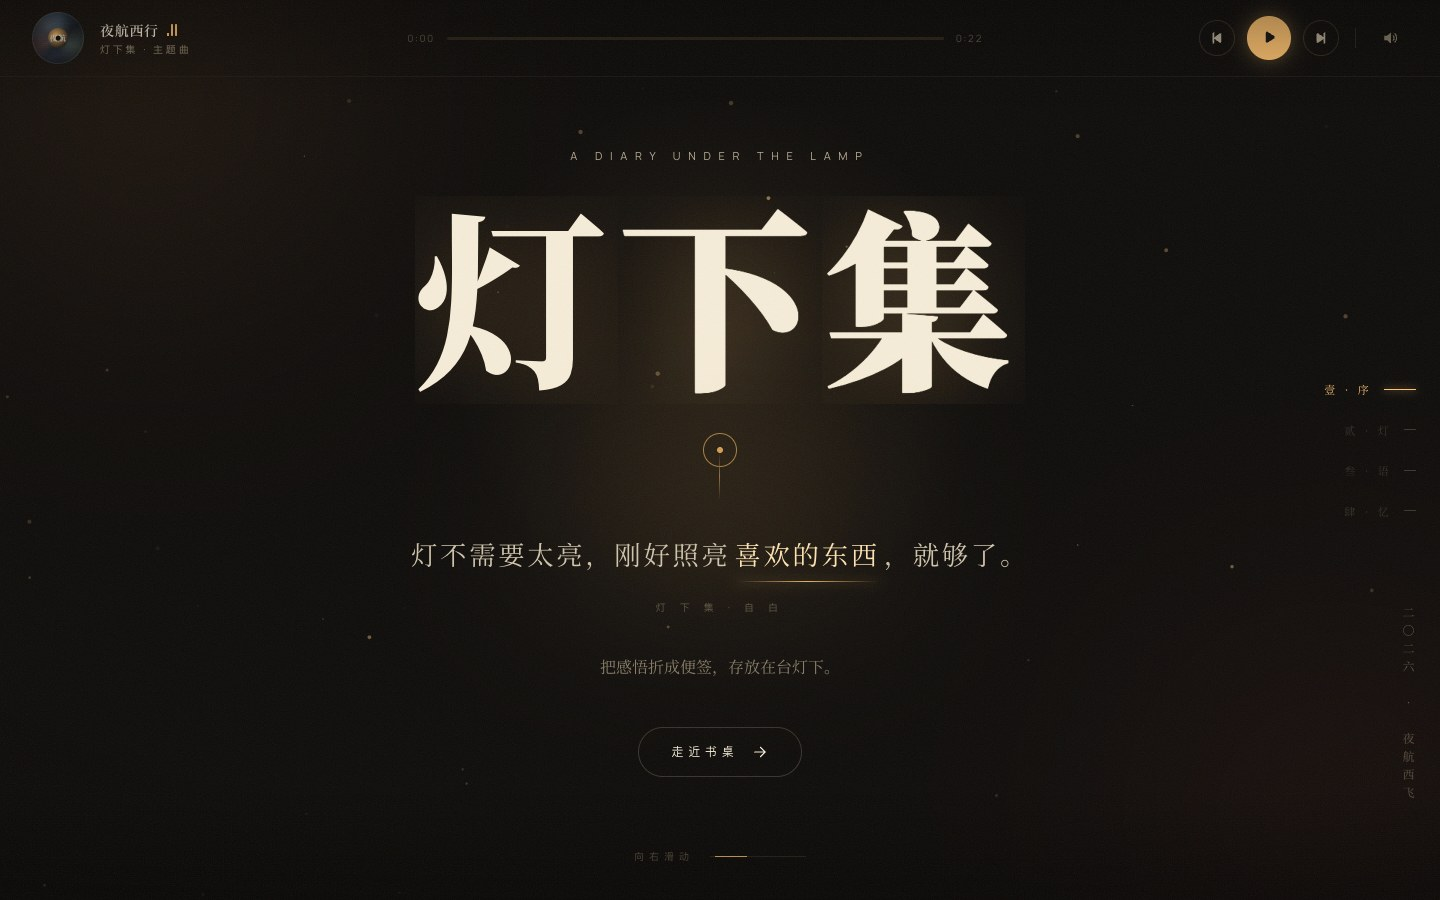
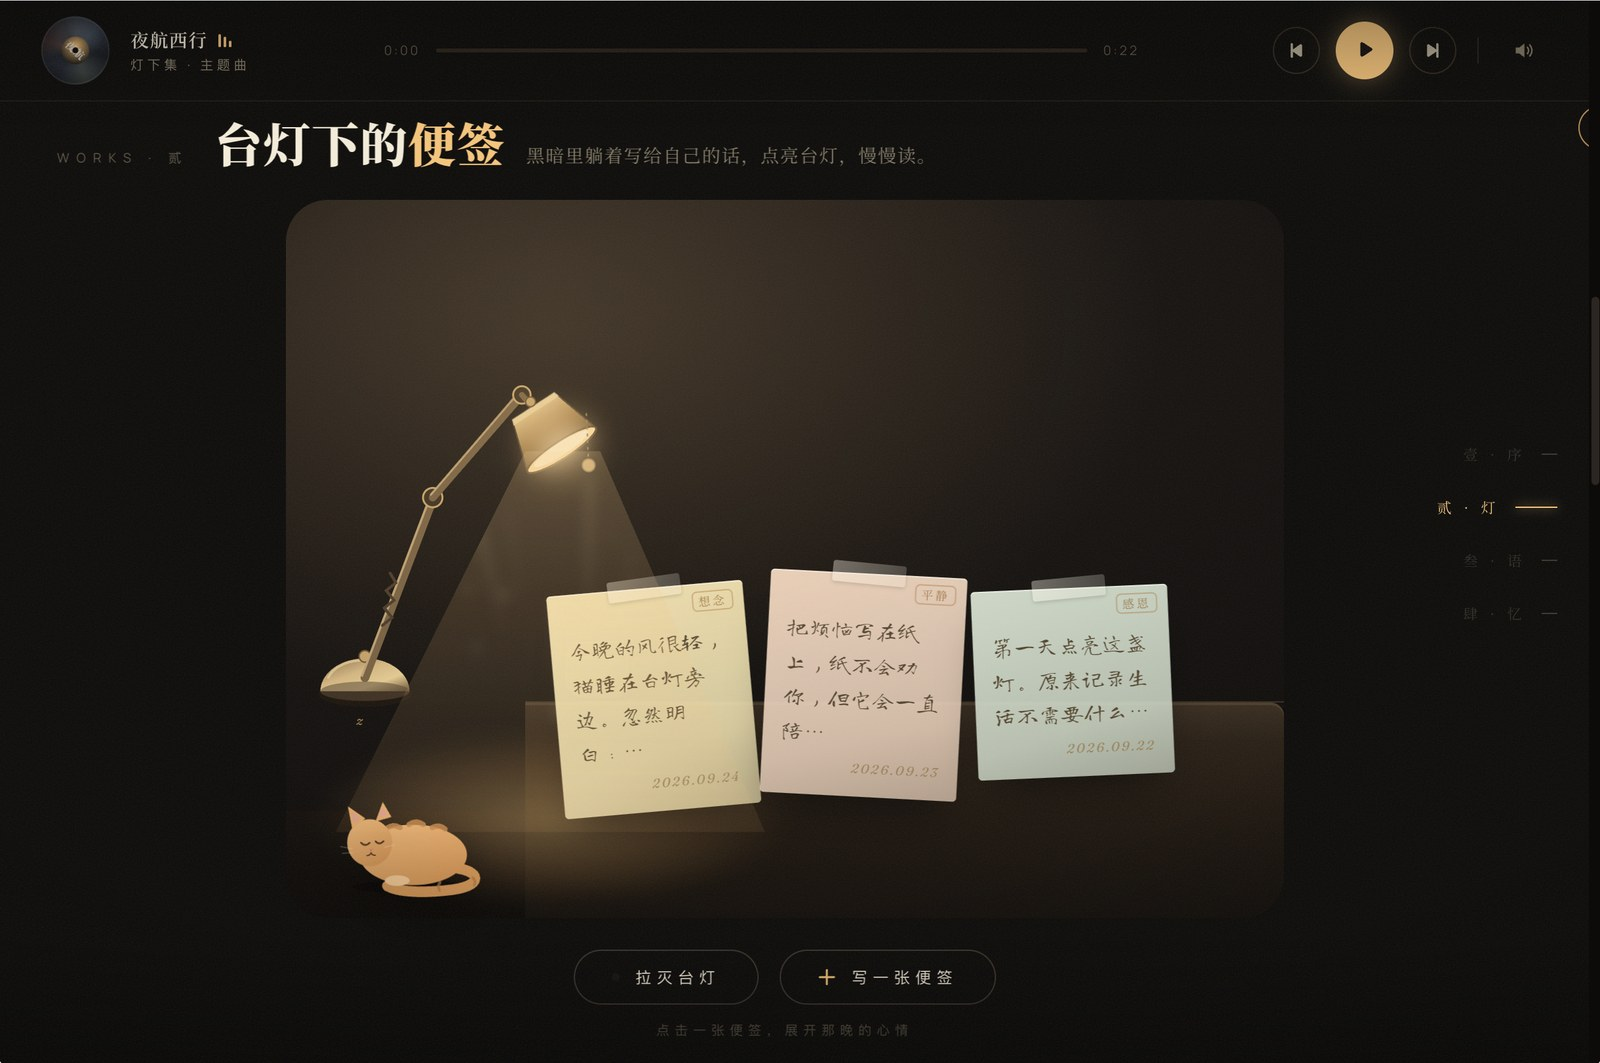
新台灯展示图+首页引导气泡

diff --git a/index.html b/index.html
@@ -755,6 +755,42 @@ footer a:hover{color:var(--accent);}
 .ov-mail{font-family:var(--serif);font-size:clamp(1.3rem,2.6vw,2rem);color:#f6f1e7;}
 .ov-social{display:flex;gap:1.6rem;}
 
+/* ============ HERO HINTS（首页引导气泡） ============ */
+.hints{position:fixed;inset:0;z-index:1800;pointer-events:none;}
+.hint{
+  position:absolute;left:50%;transform:translate(-50%,14px) scale(0.82);
+  display:flex;align-items:center;gap:0.55em;
+  padding:0.72em 1.35em;border-radius:999px;
+  font-family:var(--mono);font-size:0.75rem;letter-spacing:0.14em;
+  color:rgba(33,44,62,0.88);white-space:nowrap;
+  background:rgba(252,253,255,0.5);
+  -webkit-backdrop-filter:blur(22px) saturate(1.7);
+  backdrop-filter:blur(22px) saturate(1.7);
+  border:1px solid rgba(255,255,255,0.65);
+  box-shadow:0 10px 34px rgba(28,42,66,0.16),inset 0 1px 0 rgba(255,255,255,0.75);
+  opacity:0;filter:blur(6px);
+  transition:opacity 0.7s cubic-bezier(0.22,1,0.36,1),
+             transform 0.7s cubic-bezier(0.22,1,0.36,1),
+             filter 0.7s cubic-bezier(0.22,1,0.36,1);
+  will-change:transform,opacity,filter;
+}
+.hint.show{opacity:1;filter:blur(0);transform:translate(-50%,0) scale(1);
+  animation:hintFloat 2.8s ease-in-out 0.75s infinite;}
+.hint.gone{opacity:0;filter:blur(6px);transform:translate(-50%,10px) scale(0.88);}
+@keyframes hintFloat{0%,100%{transform:translate(-50%,0) scale(1);}50%{transform:translate(-50%,-5px) scale(1);}}
+.hint .h-ico{display:inline-flex;align-items:center;justify-content:center;
+  width:1.55em;height:1.55em;border-radius:50%;
+  background:rgba(33,44,62,0.08);font-size:0.85em;line-height:1;}
+.hint--tap{top:60%;}
+.hint--swipe{top:70%;}
+.hint--bg{bottom:7.2rem;}
+.hint--tap .h-ico{animation:hintTap 1.8s cubic-bezier(0.34,1.4,0.64,1) infinite;}
+@keyframes hintTap{0%,100%{transform:scale(1);}12%{transform:scale(0.72);}28%{transform:scale(1.06);}42%{transform:scale(1);}}
+.hint--swipe .h-ico{animation:hintSwipe 1.8s cubic-bezier(0.45,0,0.25,1) infinite;}
+@keyframes hintSwipe{0%,100%{transform:translateX(0);}45%{transform:translateX(-5px);}60%{transform:translateX(2px);}}
+.hint--bg .h-ico{animation:hintSpin 5s linear infinite;}
+@keyframes hintSpin{to{transform:rotate(360deg);}}
+
 /* ============ REDUCED MOTION ============ */
 @media (prefers-reduced-motion:reduce){
   *,*::before,*::after{animation:none!important;transition:none!important;}
@@ -901,6 +937,11 @@ footer a:hover{color:var(--accent);}
 </div>
 
 <!-- Pager -->
+<div class="hints" id="hints" aria-hidden="true">
+  <div class="hint hint--tap"><span class="h-ico">◎</span>试试点开看看</div>
+  <div class="hint hint--swipe"><span class="h-ico">←</span>向左滑试试</div>
+  <div class="hint hint--bg"><span class="h-ico">◐</span>试试切换背景</div>
+</div>
 <div class="pager" id="pager" aria-hidden="true">
   <div class="pg-row">
     <span class="pg-cur" id="pgCur">01</span>
@@ -1975,6 +2016,33 @@ footer a:hover{color:var(--accent);}
     }
   }
   updateNavActive();
+
+  /* ---------- Hero hints: 1s 点开 / 2s 左滑 / 3s 换背景 ---------- */
+  (function(){
+    var wrap = document.getElementById('hints');
+    if (!wrap) return;
+    var items = Array.prototype.slice.call(wrap.querySelectorAll('.hint'));
+    if (REDUCED){ items.forEach(function(el){ el.style.transitionDuration = '0.2s'; }); }
+    var HERO_HOLD = 4200; /* 每条气泡停留时长 */
+    function onHero(){ return pagerLast === 0; }
+    items.forEach(function(el, i){
+      setTimeout(function(){
+        if (!onHero()) return;
+        el.classList.add('show');
+        setTimeout(function(){ el.classList.add('gone'); }, HERO_HOLD);
+        setTimeout(function(){ el.classList.remove('show','gone'); el.style.display = 'none'; }, HERO_HOLD + 900);
+      }, 1000 * (i + 1));
+    });
+    /* 用户翻离首页时立即清场 */
+    var guard = setInterval(function(){
+      if (pagerLast !== 0){
+        items.forEach(function(el){ el.classList.remove('show'); el.classList.add('gone'); });
+        setTimeout(function(){ wrap.style.display = 'none'; }, 700);
+        clearInterval(guard);
+      }
+    }, 400);
+    setTimeout(function(){ clearInterval(guard); }, 12000);
+  })();
 
   /* ---------- Scroll-linked edge particles ----------
      the leaving edge of the outgoing page dissolves into drifting dots,
